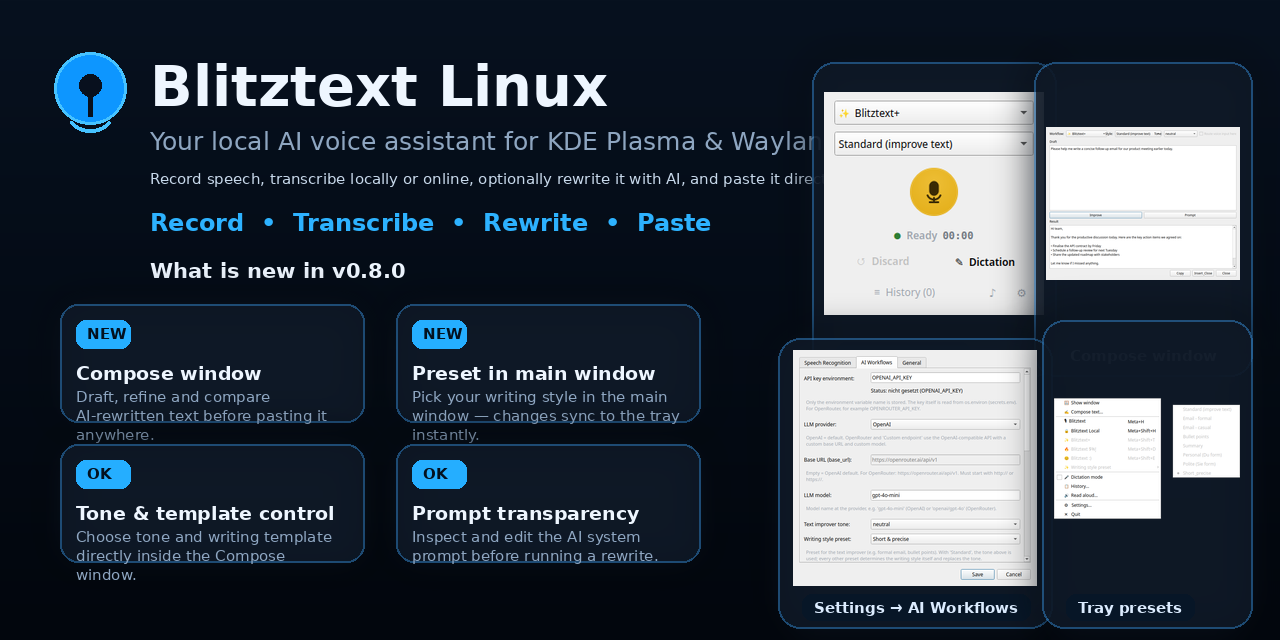
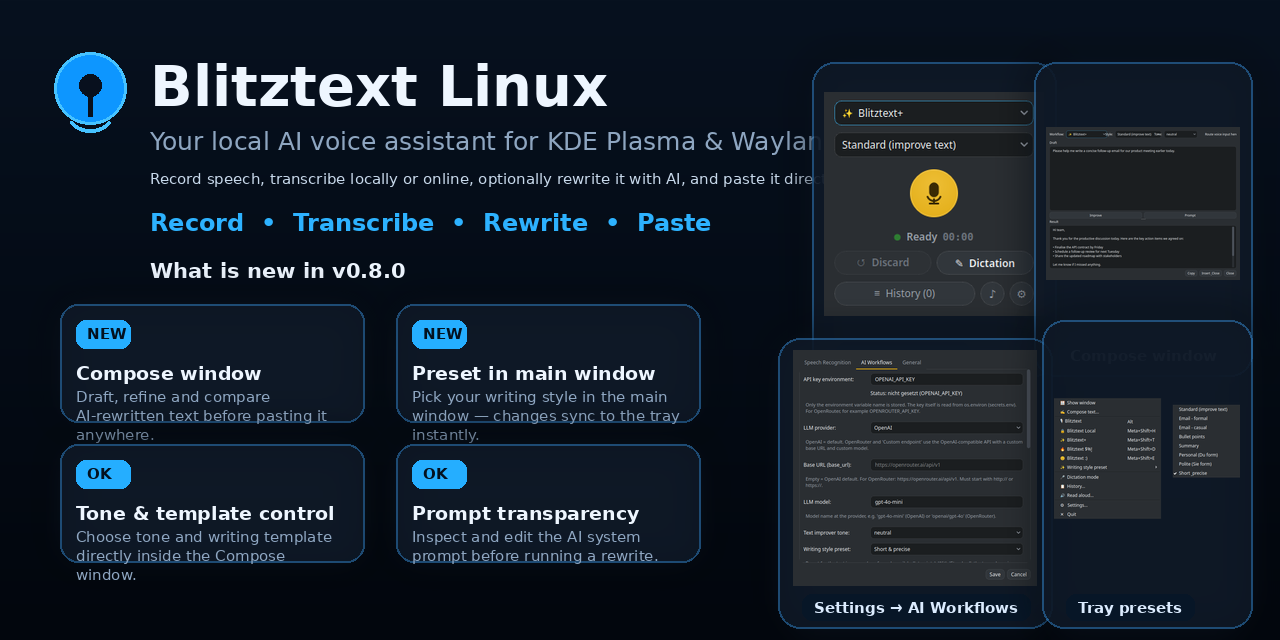
fix(screenshots): render README assets with the real Breeze-Dark theme
The screenshot generator never called theme.apply_theme(), so all
committed README screenshots and banners showed the unthemed light
Qt look instead of the actual Breeze-Dark glass appearance the app
applies at startup. Apply the theme like the real app start does and
regenerate every screenshot and banner (the tray menu now also shows
the corrected Alt hotkey label).

Changed region(s): [[0.5938, 0.5312, 0.9688, 0.9375], [0.625, 0.125, 0.9688, 0.5]]

diff --git a/scripts/_make_screenshots.py b/scripts/_make_screenshots.py
@@ -22,6 +22,7 @@ from PIL import Image, ImageDraw, ImageFilter, ImageFont
 from PyQt6.QtCore import Qt
 from PyQt6.QtWidgets import QApplication
 
+from app import theme
 from app.blitztext_linux import BlitztextApp, Config, SettingsDialog
 from app.compose_window import ComposeWindow
 from app.config import BlitztextConfig
@@ -428,6 +429,9 @@ def main() -> int:
     out_dir.mkdir(parents=True, exist_ok=True)
     os.environ.setdefault("QT_QPA_PLATFORM", "offscreen")
     app = QApplication(sys.argv)
+    # Wie im echten App-Start (blitztext_linux.main): Breeze-Dark-Glass-Theme,
+    # damit die Screenshots die tatsaechliche Produkt-Optik zeigen.
+    theme.apply_theme(app)
     for lang in ("en", "de"):
         print(f"Generating assets for {lang} …")
         _render_language_set(out_dir, lang)
